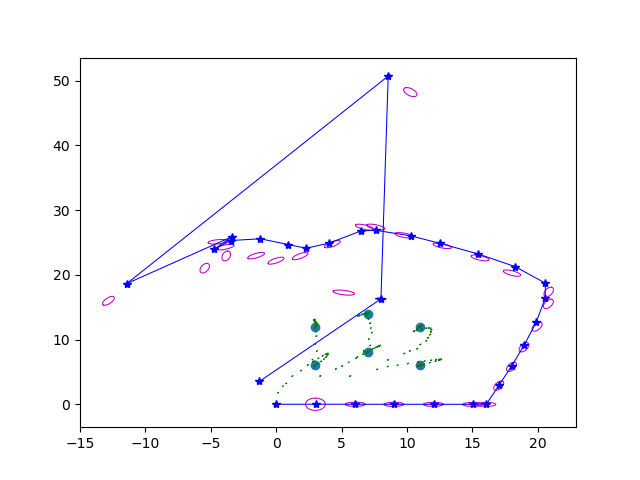
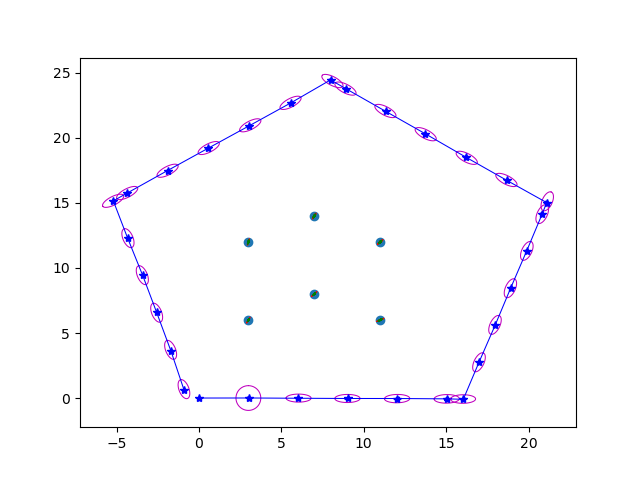
all results and report

diff --git a/code/ekf_slam.py b/code/ekf_slam.py
@@ -124,14 +124,14 @@ def init_landmarks(init_measure, init_measure_cov, init_pose, init_pose_cov):
         beta = warp2pi(beta + init_pose[2, 0])
         landmark[2 * i, 0]     = x + r * np.cos(beta)
         landmark[2 * i + 1, 0] = y + r * np.sin(beta)
-        H = np.array(
+        J = np.array(
             [
                 [-r * np.sin(beta + theta), np.cos(beta + theta)],
                 [r * np.cos(beta + theta), np.sin(beta + theta)]
             ]
         )
         
-        landmark_cov[2 * i:2 * i + 2, 2 * i:2 * i + 2] = H @ init_measure_cov @ H.T
+        landmark_cov[2 * i:2 * i + 2, 2 * i:2 * i + 2] = J @ init_measure_cov @ J.T
     
 
     return k, landmark, landmark_cov
@@ -206,12 +206,12 @@ def update(X_pre, P_pre, measure, measure_cov, k):
         sq = np.sqrt(q)
 
         Ht[i * 2: i * 2 + 2, :3] = np.array([
-            [dely / q, delx / q, -1],
+            [dely / q, -delx / q, -1],
             [-delx / sq, -dely / sq, 0]
         ])
         
         Ht[i * 2: i * 2 + 2, (3 + 2 * i): (3 + 2 * i) + 2] = np.array([
-            [-dely / q, -delx / q],
+            [-dely / q, delx / q],
             [delx / sq, dely / sq],
         ])
         Qt[i * 2: i * 2 + 2, i * 2: i * 2 + 2] = measure_cov
@@ -264,92 +264,99 @@ def evaluate(X, P, k):
 
 def main():
     # TEST: Setup uncertainty parameters
-    scale = 1
-    sig_x = 0.25 * scale;
-    sig_y = 0.1;
-    sig_alpha = 0.1 ;
-    sig_beta = 0.01;
-    sig_r = 0.08;
 
-    # Generate variance from standard deviation
-    sig_x2 = sig_x**2
-    sig_y2 = sig_y**2
-    sig_alpha2 = sig_alpha**2
-    sig_beta2 = sig_beta**2
-    sig_r2 = sig_r**2
+    for scale in [1, 0.1, 10]:
+        for i in range(5):
+            if i == 1 and scale == 1:
+                break
+            kernel = [1, 1, 1, 1, 1]
+            kernel[i] = scale
+            sig_x = 0.25 * kernel[0]
+            sig_y = 0.1 * kernel[1]
+            sig_alpha = 0.1  * kernel[2]
+            sig_beta = 0.01* kernel[3]
+            sig_r = 0.08 * kernel[4]
+            
+            # Generate variance from standard deviation
+            sig_x2 = sig_x**2
+            sig_y2 = sig_y**2
+            sig_alpha2 = sig_alpha**2
+            sig_beta2 = sig_beta**2
+            sig_r2 = sig_r**2
 
-    # Open data file and read the initial measurements
-    data_file = open("/home/praveenvnktsh/slam_a2/data/data.txt")
-    line = data_file.readline()
-    fields = re.split('[\t ]', line)[:-1]
-    arr = np.array([float(field) for field in fields])
-    measure = np.expand_dims(arr, axis=1)
-    t = 1
-
-    # Setup control and measurement covariance
-    control_cov = np.diag([sig_x2, sig_y2, sig_alpha2])
-    measure_cov = np.diag([sig_beta2, sig_r2])
-
-    # Setup the initial pose vector and pose uncertainty
-    pose = np.zeros((3, 1))
-    pose_cov = np.diag([0.02**2, 0.02**2, 0.1**2])
-
-    ##########
-    # TODO: initialize landmarks
-    k, landmark, landmark_cov = init_landmarks(measure, measure_cov, pose,
-                                               pose_cov)
-
-    # Setup state vector X by stacking pose and landmark states
-    # Setup covariance matrix P by expanding pose and landmark covariances
-    X = np.vstack((pose, landmark))
-    P = np.block([[pose_cov, np.zeros((3, 2 * k))],
-                  [np.zeros((2 * k, 3)), landmark_cov]])
-
-    # Plot initial state and covariance
-    last_X = X.copy()
-    draw_traj_and_map(X, last_X, P, 0)
-
-    # Core loop: sequentially process controls and measurements
-    for line in data_file:
-        fields = re.split('[\t ]', line)[:-1]
-        arr = np.array([float(field) for field in fields])
-
-        # Control
-        if arr.shape[0] == 2:
-            print(f'{t}: Predict step')
-            d, alpha = arr[0], arr[1]
-            control = np.array([[d], [alpha]])
-
-            ##########
-            # TODO: predict step in EKF SLAM
-            X_pre, P_pre = predict(X, P, control, control_cov, k)
-
-            draw_traj_and_pred(X_pre, P_pre)
-
-        # Measurement
-        else:
-            print(f'{t}: Update step')
+            # Open data file and read the initial measurements
+            data_file = open("/home/praveenvnktsh/slam_a2/data/data.txt")
+            line = data_file.readline()
+            fields = re.split('[\t ]', line)[:-1]
+            arr = np.array([float(field) for field in fields])
             measure = np.expand_dims(arr, axis=1)
+            t = 1
+
+            # Setup control and measurement covariance
+            control_cov = np.diag([sig_x2, sig_y2, sig_alpha2])
+            measure_cov = np.diag([sig_beta2, sig_r2])
+
+            # Setup the initial pose vector and pose uncertainty
+            pose = np.zeros((3, 1))
+            pose_cov = np.diag([0.02**2, 0.02**2, 0.1**2])
 
             ##########
-            # TODO: update step in EKF SLAM
-            X, P = update(X_pre, P_pre, measure, measure_cov, k)
-            draw_traj_and_map(X, last_X, P, t)
-            last_X = X.copy()
-            t += 1
+            # TODO: initialize landmarks
+            k, landmark, landmark_cov = init_landmarks(measure, measure_cov, pose,
+                                                    pose_cov)
 
-    # EVAL: Plot ground truth landmarks and analyze distances
-    dists = evaluate(X, P, k)
-    
-    import os
-    params = f'{sig_x}_{sig_y}_{sig_alpha}_{sig_beta}_{sig_r}'
-    os.makedirs('results/' + params, exist_ok=True)
-    plt.savefig(f'results/{params}/plot.png')
-    with open(f'results/{params}/dists.txt', 'w') as f:
-        f.write(f'Euclidean distance, Mahalanobis distance\n')
-        for edist, mdist in dists:
-            f.write(f'{edist} {mdist}\n')
-    
+            # Setup state vector X by stacking pose and landmark states
+            # Setup covariance matrix P by expanding pose and landmark covariances
+            X = np.vstack((pose, landmark))
+            P = np.block([[pose_cov, np.zeros((3, 2 * k))],
+                        [np.zeros((2 * k, 3)), landmark_cov]])
+
+            # Plot initial state and covariance
+            last_X = X.copy()
+            draw_traj_and_map(X, last_X, P, 0)
+
+            # Core loop: sequentially process controls and measurements
+            for line in data_file:
+                fields = re.split('[\t ]', line)[:-1]
+                arr = np.array([float(field) for field in fields])
+
+                # Control
+                if arr.shape[0] == 2:
+                    print(f'{t}: Predict step')
+                    d, alpha = arr[0], arr[1]
+                    control = np.array([[d], [alpha]])
+
+                    ##########
+                    # TODO: predict step in EKF SLAM
+                    X_pre, P_pre = predict(X, P, control, control_cov, k)
+
+                    draw_traj_and_pred(X_pre, P_pre)
+
+                # Measurement
+                else:
+                    print(f'{t}: Update step')
+                    measure = np.expand_dims(arr, axis=1)
+
+                    ##########
+                    # TODO: update step in EKF SLAM
+                    X, P = update(X_pre, P_pre, measure, measure_cov, k)
+                    draw_traj_and_map(X, last_X, P, t)
+                    last_X = X.copy()
+                    t += 1
+
+            # EVAL: Plot ground truth landmarks and analyze distances
+            dists = evaluate(X, P, k)
+            
+            import os
+            params = f'{round(sig_x, 3)}_{round(sig_y, 3)}_{round(sig_alpha, 3)}_{round(sig_beta, 3)}_{round(sig_r, 3)}'
+            os.makedirs('results/' + params, exist_ok=True)
+            plt.savefig(f'results/{params}/plot.png')
+            with open(f'results/{params}/dists.txt', 'w') as f:
+                f.write(f'| Euclidean distance | Mahalanobis distance |\n')
+                f.write(f'| --- | --- |\n')
+                for edist, mdist in dists:
+                    f.write(f'| {edist} | {mdist} | \n')
+            plt.cla()
 
 
 if __name__ == "__main__":

diff --git a/report.md b/report.md
@@ -1,0 +1,46 @@
+
+
+### Q2
+![](code/results/0.25_0.1_0.1_0.01_0.08/plot.png)
+
+
+### Q3
+
+
+#### Part 2
+
+
+
+
+
+
+
+|$\sigma_x = 2.5$ | $\sigma_x = 0.025$ | $\sigma_x = 0.25$ |
+| --- | --- | -- | 
+| ![](code/results/2.5_0.1_0.1_0.01_0.08/plot.png) | ![](code/results/0.025_0.1_0.1_0.01_0.08/plot.png) |![](code/results/0.25_0.1_0.1_0.01_0.08/plot.png) | 
+
+
+|$\sigma_y = 1.0$ | $\sigma_y = 0.01$ | $\sigma_y = 0.1$ |
+| --- | --- | -- | 
+| ![](code/results/0.25_1.0_0.1_0.01_0.08/plot.png) | ![](code/results/0.25_0.01_0.1_0.01_0.08/plot.png) |![](code/results/0.25_0.1_0.1_0.01_0.08/plot.png) | 
+
+
+|$\sigma_{\alpha} = 1.0$ | $\sigma_{\alpha} = 0.01$ | $\sigma_{\alpha} = 0.1$ |
+| --- | --- | -- | 
+| ![](code/results/0.25_0.1_1.0_0.01_0.08/plot.png) | ![](code/results/0.25_0.1_0.01_0.01_0.08/plot.png) |![](code/results/0.25_0.1_0.1_0.01_0.08/plot.png) | 
+
+
+
+
+|$\sigma_{b} = 0.1$ | $\sigma_{b} = 0.001$ | $\sigma_{b} = 0.01$ |
+| --- | --- | -- | 
+| ![](code/results/0.25_0.1_0.1_0.1_0.08/plot.png) | ![](code/results/0.25_0.1_0.1_0.001_0.08/plot.png) |![](code/results/0.25_0.1_0.1_0.01_0.08/plot.png) | 
+
+
+|$\sigma_{\alpha} = 1.0$ | $\sigma_{\alpha} = 0.01$ | $\sigma_{\alpha} = 0.1$ |
+| --- | --- | -- | 
+| ![](code/results/0.25_0.1_0.1_0.01_0.08/plot.png) | ![](code/results/0.25_0.1_0.1_0.01_0.08/plot.png) |![](code/results/0.25_0.1_0.1_0.01_0.08/plot.png) | 
+
+|$\sigma_{r} = 0.8$ | $\sigma_{r} = 0.008$ | $\sigma_{r} = 0.08$ |
+| --- | --- | -- | 
+| ![](code/results/0.25_0.1_0.1_0.01_0.8/plot.png) | ![](code/results/0.25_0.1_0.1_0.01_0.008/plot.png) |![](code/results/0.25_0.1_0.1_0.01_0.08/plot.png) | 
